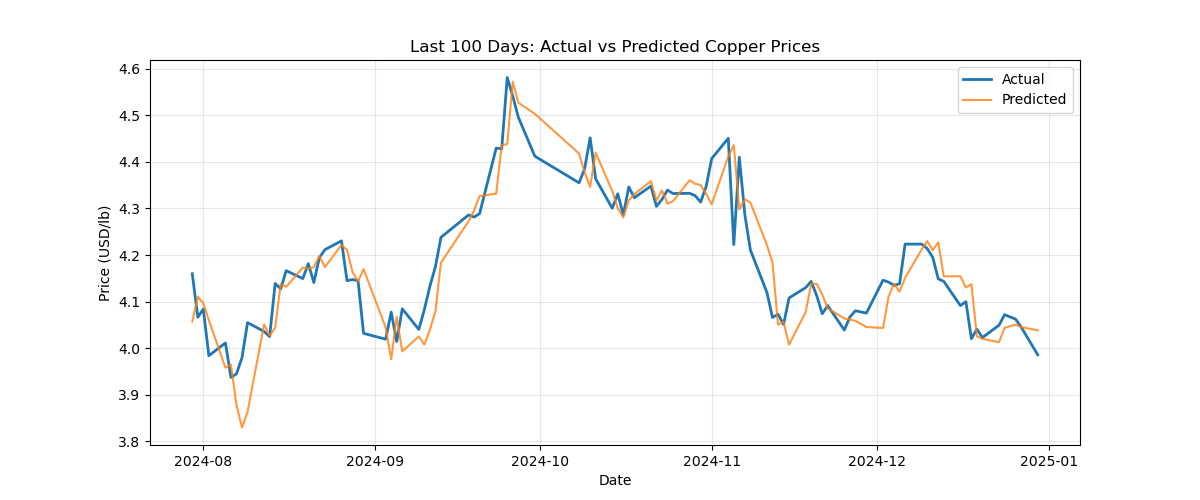
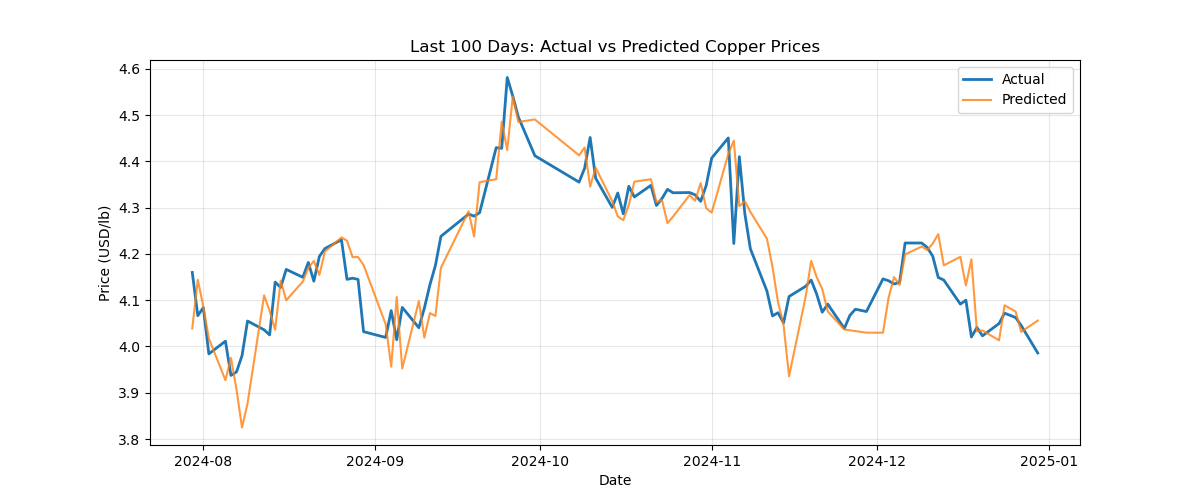
a

diff --git a/content/miniprojects/copper-future/_index.md b/content/miniprojects/copper-future/_index.md
@@ -1,53 +1,96 @@
 ---
 title: "Copper Future Prediction"
 date: 2025-07-16
-summary: What is the correlation between air quality and wealth in the U.S.?
+summary: How accurately can we forecast COMEX copper prices using global market data?
 author: Linda Meng
 ---
 
 ## Topic
 
+> ***How accurately can we forecast COMEX copper prices using global market data?***
+
+A copper future is a legally binding agreement to buy or sell a standard quantity of Grade-A cathode copper at a preset price for delivery (or cash‐settlement) on a future date. Producers hedge price risk, manufacturers lock-in costs, and speculators trade anticipated moves.
+
+Copper is traded on several international futures exchanges. While prices generally move together, local factors (like tariffs) can create divergence. In this project, we investigate whether short-term COMEX (New York, United States) copper prices can be predicted using historical price patterns and information from other exchanges like SHFE (Shanghai, China) and LME (London, England).
 
 ## Hypothesis
 
+We hypothesized that copper prices in the US (COMEX) are predictable using lagged pricing information and indicators derived from the other markets. Because copper contracts are traded globally and prices co-move, recent trends and spreads between exchanges should provide useful signs for prediction.
+
 ## Data Acquisition
+
+We gathered daily price data from two main sources: the COMEX copper futures (in USD per pound) and SHFE copper futures (converted to USD per pound). These were joined into a unified dataset with aligned timestamps. The London Metal Exchange (LME) was excluded from the final prediction model due to the fact that LME data was only available monthly, while SHFE and COMEX data were daily. Since our model was trained to predict next-day prices, monthly data would not align with the daily format and would create lots of missing values or require mass interpolation.
+
+
+
 ![](data_summary.png)
 
 ### Summary of the Three Exchanges
+
 | Exchange (venue code)                       | Contract unit        | Price quote   | Typical trading hours (local)         | Warehouse/delivery system                                   | Tick size                                                      |
 | ------------------------------------------- | -------------------- | ------------- | ------------------------------------- | ----------------------------------------------------------- | -------------------------------------------------------------- |
-| **London Metal Exchange – LME Copper (CA)** | 25 metric tonnes     | USD per tonne | 01:00-19:00 London (ring + LMEselect) | Global LME-approved sheds; *“warrants”* transferable        | USD 0.10/tonne ([Lme][1])                                      |
-| **Shanghai Futures Exchange – SHFE 铜 (CU)** | 5 t                  | CNY per ton   | 09:00-15:00 & 21:00-02:00 Beijing     | Mainland China warehouses; VAT & import‐quota rules apply   | ¥10/ton (≈USD 1.4) ([tsite.shfe.com.cn][2], [Barchart.com][3]) |
-| **CME Group / COMEX Copper (HG)**           | 25 000 lb (≈11.34 t) | USD ¢ per lb  | 18:00-17:00 ET (electronically)       | U.S. COMEX-licensed warehouses; deliverable Grade 1 cathode | USD 0.0005/lb ([CME Group][4], [CME Group][5])                 |
+| **London Metal Exchange – LME Copper (CA)** | 25 metric tonnes     | USD per tonne | 01:00–19:00 London (ring + LMEselect) | Global LME-approved sheds; *“warrants”* transferable        | USD 0.10/tonne ([LME][1])                                      |
+| **Shanghai Futures Exchange – SHFE 铜 (CU)** | 5 t                  | CNY per ton   | 09:00–15:00 & 21:00–02:00 Beijing     | Mainland China warehouses; VAT & import‐quota rules apply   | ¥10/ton (≈USD 1.4) ([SHFE][2], [Barchart][3])                  |
+| **CME Group / COMEX Copper (HG)**           | 25,000 lb (≈11.34 t) | USD ¢ per lb  | 18:00–17:00 ET (electronically)       | U.S. COMEX-licensed warehouses; deliverable Grade 1 cathode | USD 0.0005/lb ([CME Spec][4], [CME Page][5])                   |
 
-[1]: https://www.lme.com/en/metals/non-ferrous/lme-copper/contract-specifications?utm_source=chatgpt.com "Contract specifications | London Metal Exchange"
-[2]: https://tsite.shfe.com.cn/eng/market/futures/metal/cu/index.html?utm_source=chatgpt.com "Copper"
-[3]: https://www.barchart.com/futures/quotes/VC%2A0/profile?utm_source=chatgpt.com "SHFE Copper Aug '25 Futures Contract Specifications - Barchart.com"
-[4]: https://www.cmegroup.com/markets/metals/base/copper.contractSpecs.html?utm_source=chatgpt.com "Copper Futures Contract Specs - CME Group"
-[5]: https://www.cmegroup.com/markets/metals/base/copper.html?utm_source=chatgpt.com "Copper Futures Overview - CME Group"
+[1]: https://www.lme.com/en/metals/non-ferrous/lme-copper/contract-specifications?utm_source=chatgpt.com
+[2]: https://tsite.shfe.com.cn/eng/market/futures/metal/cu/index.html?utm_source=chatgpt.com
+[3]: https://www.barchart.com/futures/quotes/VC%2A0/profile?utm_source=chatgpt.com
+[4]: https://www.cmegroup.com/markets/metals/base/copper.contractSpecs.html?utm_source=chatgpt.com
+[5]: https://www.cmegroup.com/markets/metals/base/copper.html?utm_source=chatgpt.com
+
+## Feature Engineering
+
+We engineered several time-series features to capture pricing trends and signals:
+
+- **Lagged prices** - prices from 1, 2, 3, and 5 days prior.
+- **Moving averages** - 5-day and 20-day simple moving averages.
+- **Deviation from moving average** - the difference between the current price and 5-day MA.
+- **Spread** - the difference between COMEX and SHFE prices.
+- **Volatility** - 5-day rolling standard deviation of prices.
+
+## Model Selection and Tuning
+
+We chose to use **XGBoost**, a gradient-boosted tree model, for its ability to handle nonlinear, tabular (data that is structured into rows and columns) and time series features well. We used 80% of the data for training and 20% for testing, selected randomly. The model was trained to predict the next day’s COMEX copper price, using only past information.
+
+(explain gridsearchCV+tuning)
 
 
-## Model Performance Evaluation
+
+## Model Evaluation
+
+The model achieved the following performance:
 
 | Metric | Value |
 |--------|-------|
-| Training MAE | $0.0300 |
-| Test MAE | $0.0543 |
-| Test R² | 0.9394 |
-| Error as % of Price | 1.35% |
+| Training MAE | $0.0251 |
+| Test MAE | $0.0598 |
+| Test R² | 0.9304 |
+| Error as % of Price | 1.48% |
 
 ![](prediction.png)
 
+(explain)
+
 ## Feature Importance
+
+We extracted feature importances from the trained XGBoost model to understand what signals mattered most:
 
 | Feature | Importance |
 |---------|------------|
-| price_lag_1 | 0.540529 |
-| price_lag_2 | 0.328109 |
-| ma_5 | 0.126359 |
-| price_lag_3 | 0.001779 |
-| diff_from_ma5 | 0.001672 |
-| price_lag_5 | 0.000710 |
-| ma_20 | 0.000401 |
-| spread | 0.000228 |
-| volatility | 0.000212 |
+| price_lag_1 | 0.574242 |
+| ma_5 | 0.404583 |
+| price_lag_2 | 0.015629 |
+| diff_from_ma5 | 0.002304 |
+| price_lag_3 | 0.001256 |
+| price_lag_5 | 0.000647 |
+| spread | 0.000550 |
+| volatility | 0.000422 |
+| ma_20 | 0.000367 |
+
+Short-term momentum signals, especially the previous day’s price, were the most influential. Medium-term averages and SHFE price spreads had almost no impact. This suggests that while copper prices are globally connected, most of the short-term predictability comes from local trends in the COMEX market itself.
+
+## Conclusion
+
+Our hypothesis was largely supported: copper prices on COMEX can be accurately forecasted using a set of lag-based features. However, we found that foreign price signals like SHFE spreads were less helpful than expected, short-term memory in price series was highly predictive. 
+
